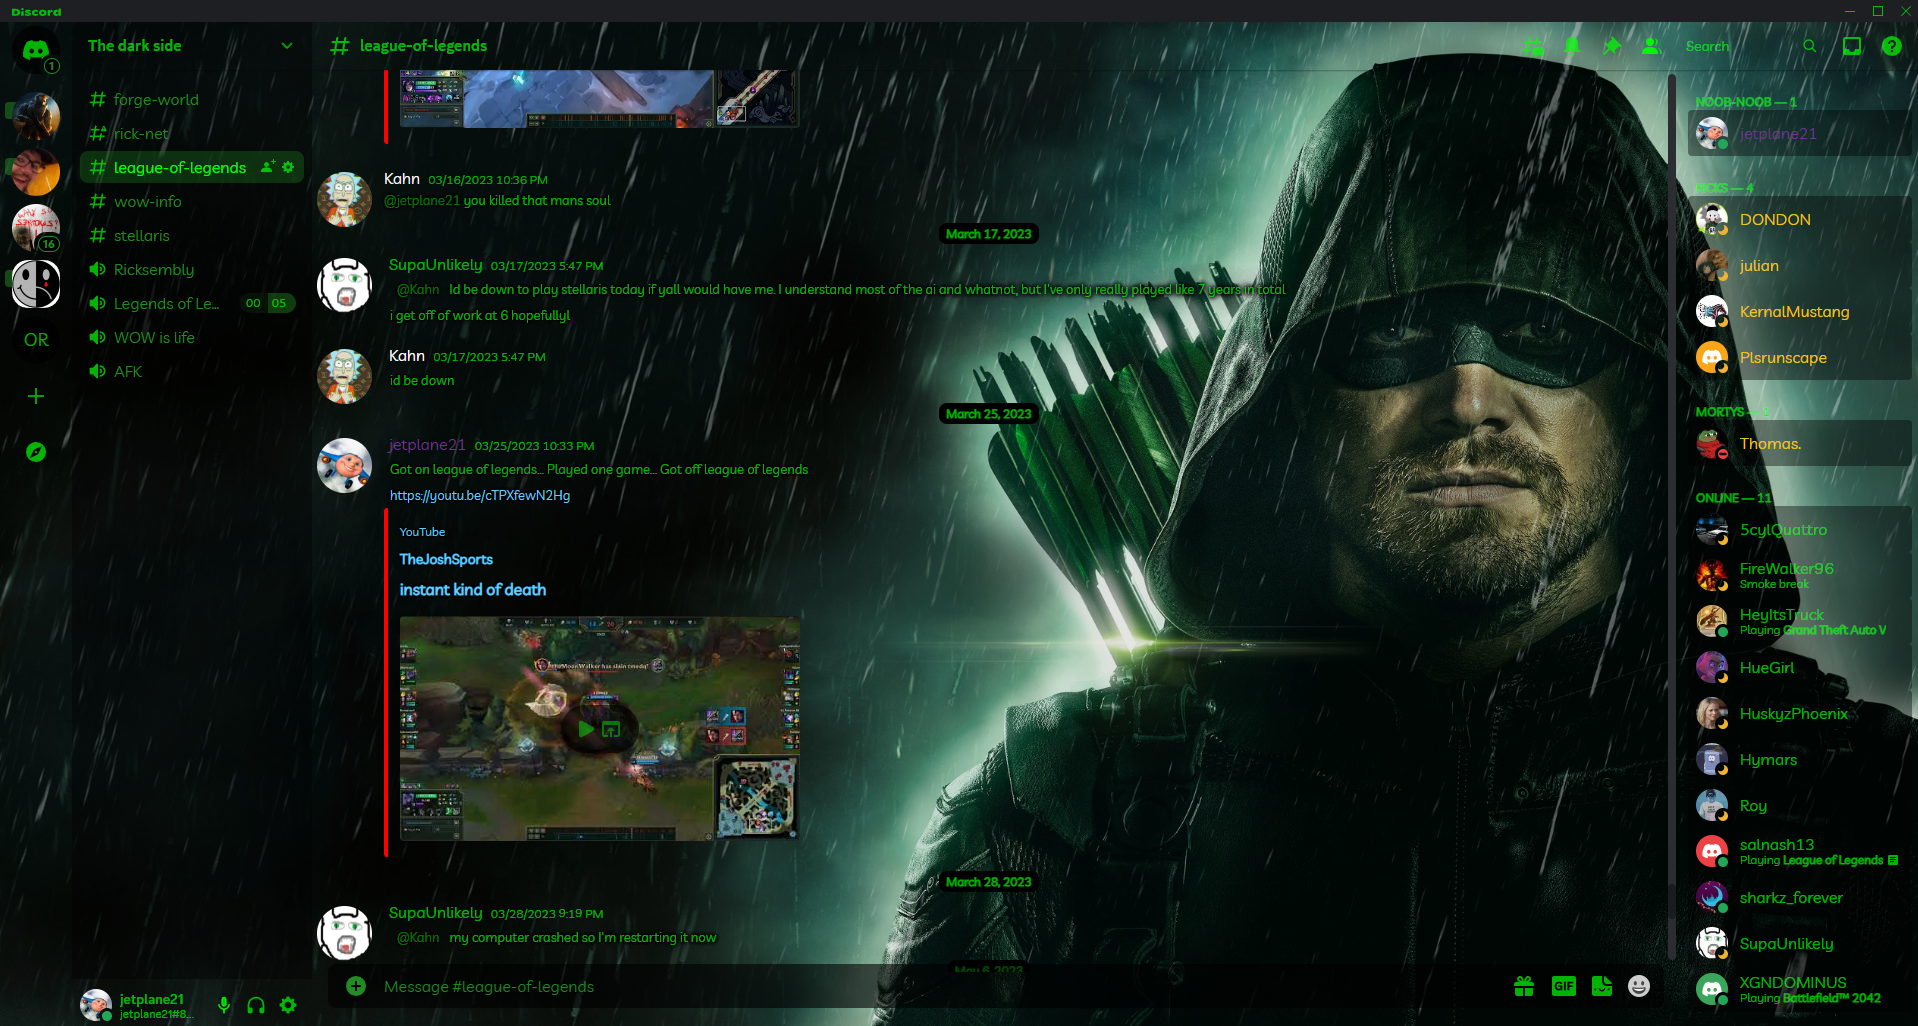
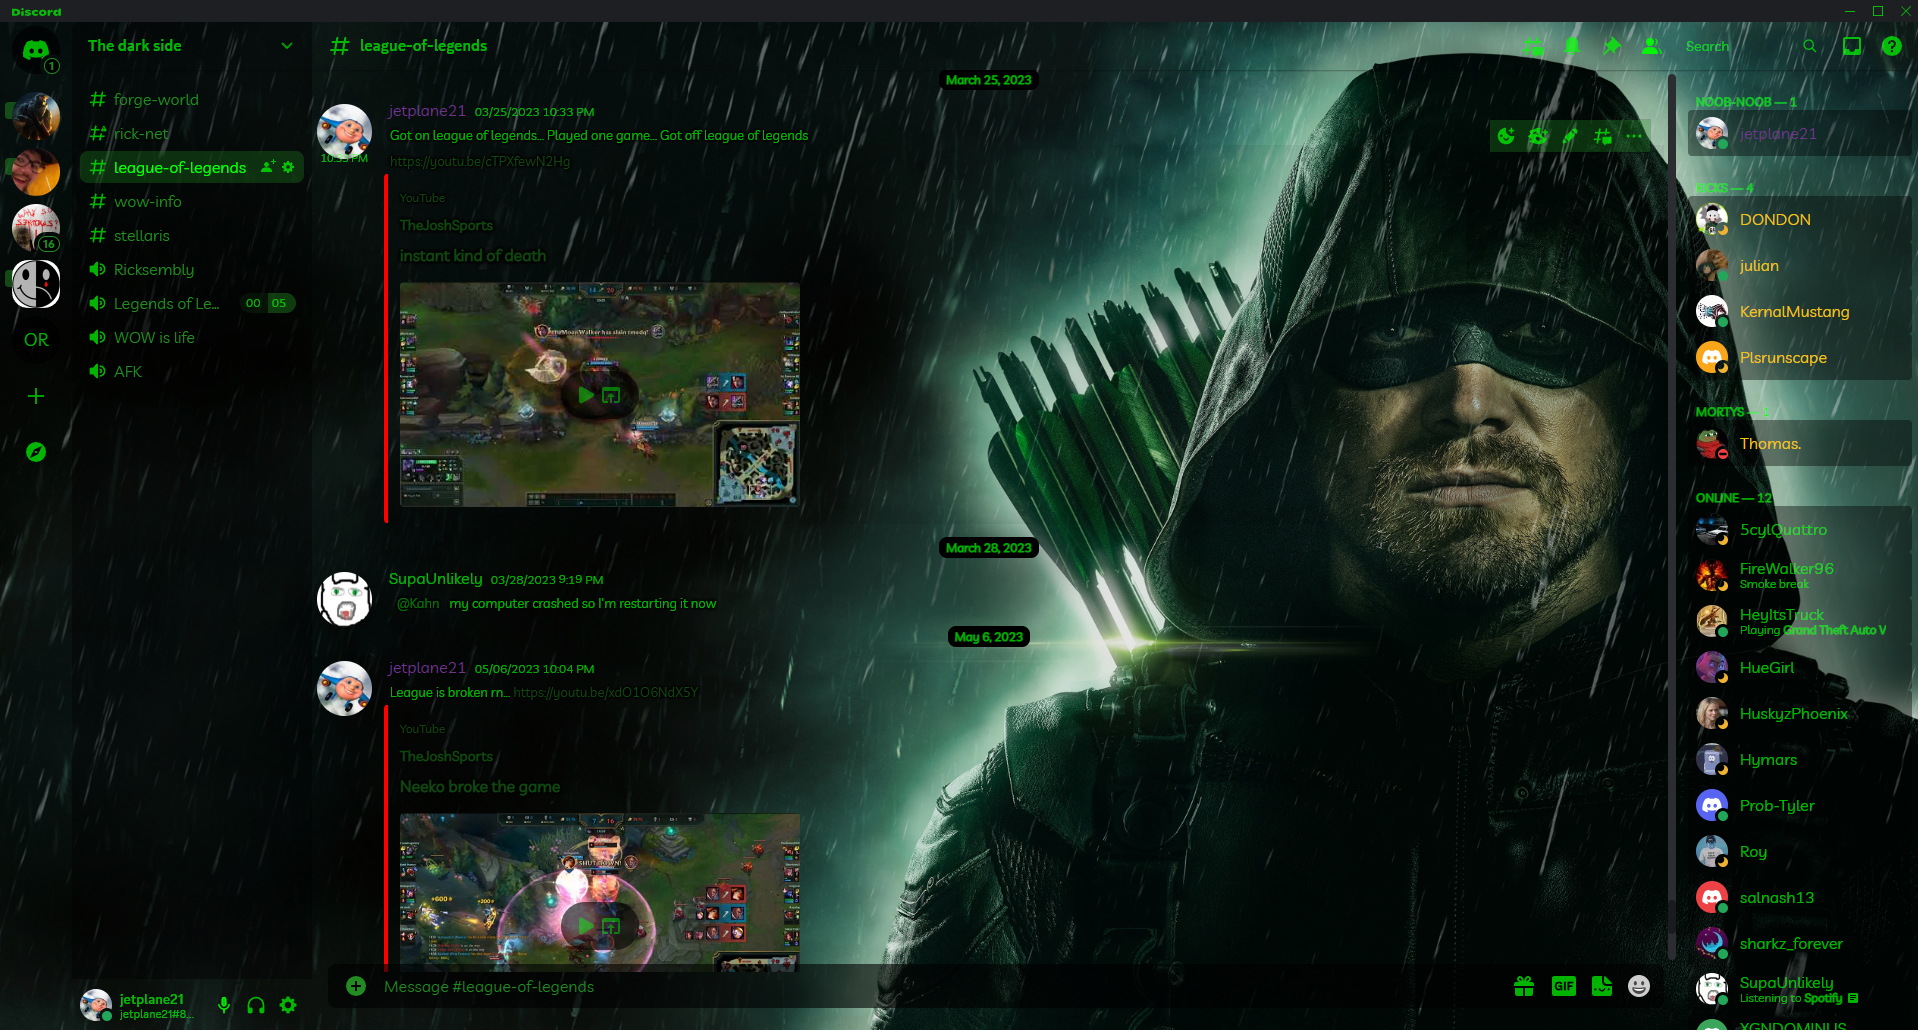
v2 Green Arrow

diff --git a/Green_Arrow.theme.css b/Green_Arrow.theme.css
@@ -864,33 +864,33 @@
 
  
  .lookFilled-yCfaCM.colorBrand-I6CyqQ:hover {
-     background-color: #2d62d5;
+     background-color: rgba(34,139,34,1);
  }
  
  .lookFilled-yCfaCM.colorBrand-I6CyqQ,
  .lookFilled-yCfaCM.colorBrand-I6CyqQ:disabled {
-     background-color: #4570e6;
+     background-color: rgba(34,139,34,1);
      color: rgba(0,255,0,1);
  }
  
  .lookOutlined-3yKVGo.colorBrand-I6CyqQ:hover {
-     border-color: #2d62d5;
+     border-color: rgba(34,139,34,1);
  }
  
  .lookOutlined-3yKVGo.colorBrand-I6CyqQ {
      color: rgba(34,139,34,1) !important;
-     border-color: #4570e6;
+     border-color: rgba(34,139,34,1);
  }
  
  .lookInverted-2mDUMi.colorBrand-I6CyqQ {
      color: rgba(0,255,0,1);
      background-color: transparent;
-     border: 2px solid #4570e6;
+     border: 2px solid rgba(34,139,34,1);
  }
  
  .lookInverted-2mDUMi.colorBrand-I6CyqQ:hover {
      color: rgba(0,255,0,1);
-     background-color: #4570e6 !important;
+     background-color: rgba(34,139,34,1) !important;
  }
  
  .button-f2h6uQ {
@@ -1119,7 +1119,7 @@
  
  .theme-dark .keybindShortcut-3zF1P9 span:active,
  .theme-dark .dim-2Uxgxb span:active {
-     color: #c5c5c6;
+     color: rgba(34,139,34,1);
  }
  
  .keybindShortcut-3zF1P9 span {
@@ -1500,7 +1500,7 @@
  }
  
  .colorDefault-CDqZdO .checkbox-hADx5o {
-     color: rgba(220,220,220, 0.26) !important;
+     color: rgba(34,139,34,.5) !important;
  }
  
  .colorDefault-CDqZdO.focused-3qFvc8 .check-3HZJs4 {
@@ -1711,11 +1711,11 @@
  }
 
  .lookInverted-2mDUMi.colorBrand-I6CyqQ:disabled {
-    background-color: #4570e6;
+    background-color: rgba(34,139,34,1);
 }
  
 .selectedBackground-1t6xXq {
-     background-color: #4570e6 !important;
+     background-color: rgba(34,139,34,1) !important;
      color: rgba(34,139,34,1) !important;
  }
  
@@ -2086,8 +2086,8 @@
  
  /* Links */
  
- .theme-dark .embedTitleLink-1QbYA- {
-     color: #66cff9 !important;
+ .theme-dark .embedTitleLink-1QbYA- { /* link text */
+     color: rgba(34,139,34,.5) !important;
  }
  
  .standardSidebarView-E9Pc3j a,
@@ -2111,16 +2111,16 @@
  .theme-dark .container-1ILvLB section a,
  .fakeLink-2FvUR7,
  .metadataContent-lalfZ3 a,
- .editChannelButton-1dYN-G {
-     color: #66cff9;
+ .editChannelButton-1dYN-G { /* link text */
+     color: rgba(34,139,34,.5);
  }
  
  .lookLink-15mFoz.colorLink-1Md3RZ:hover .contents-3ca1mk {
      background-image: linear-gradient(0deg,
      transparent,
      transparent 1px,
-     #66cff9 0,
-     #66cff9 2px,
+     rgba(34,139,34,.5) 0,
+     rgba(34,139,34,.5) 2px,
      transparent 0);
  }
  
